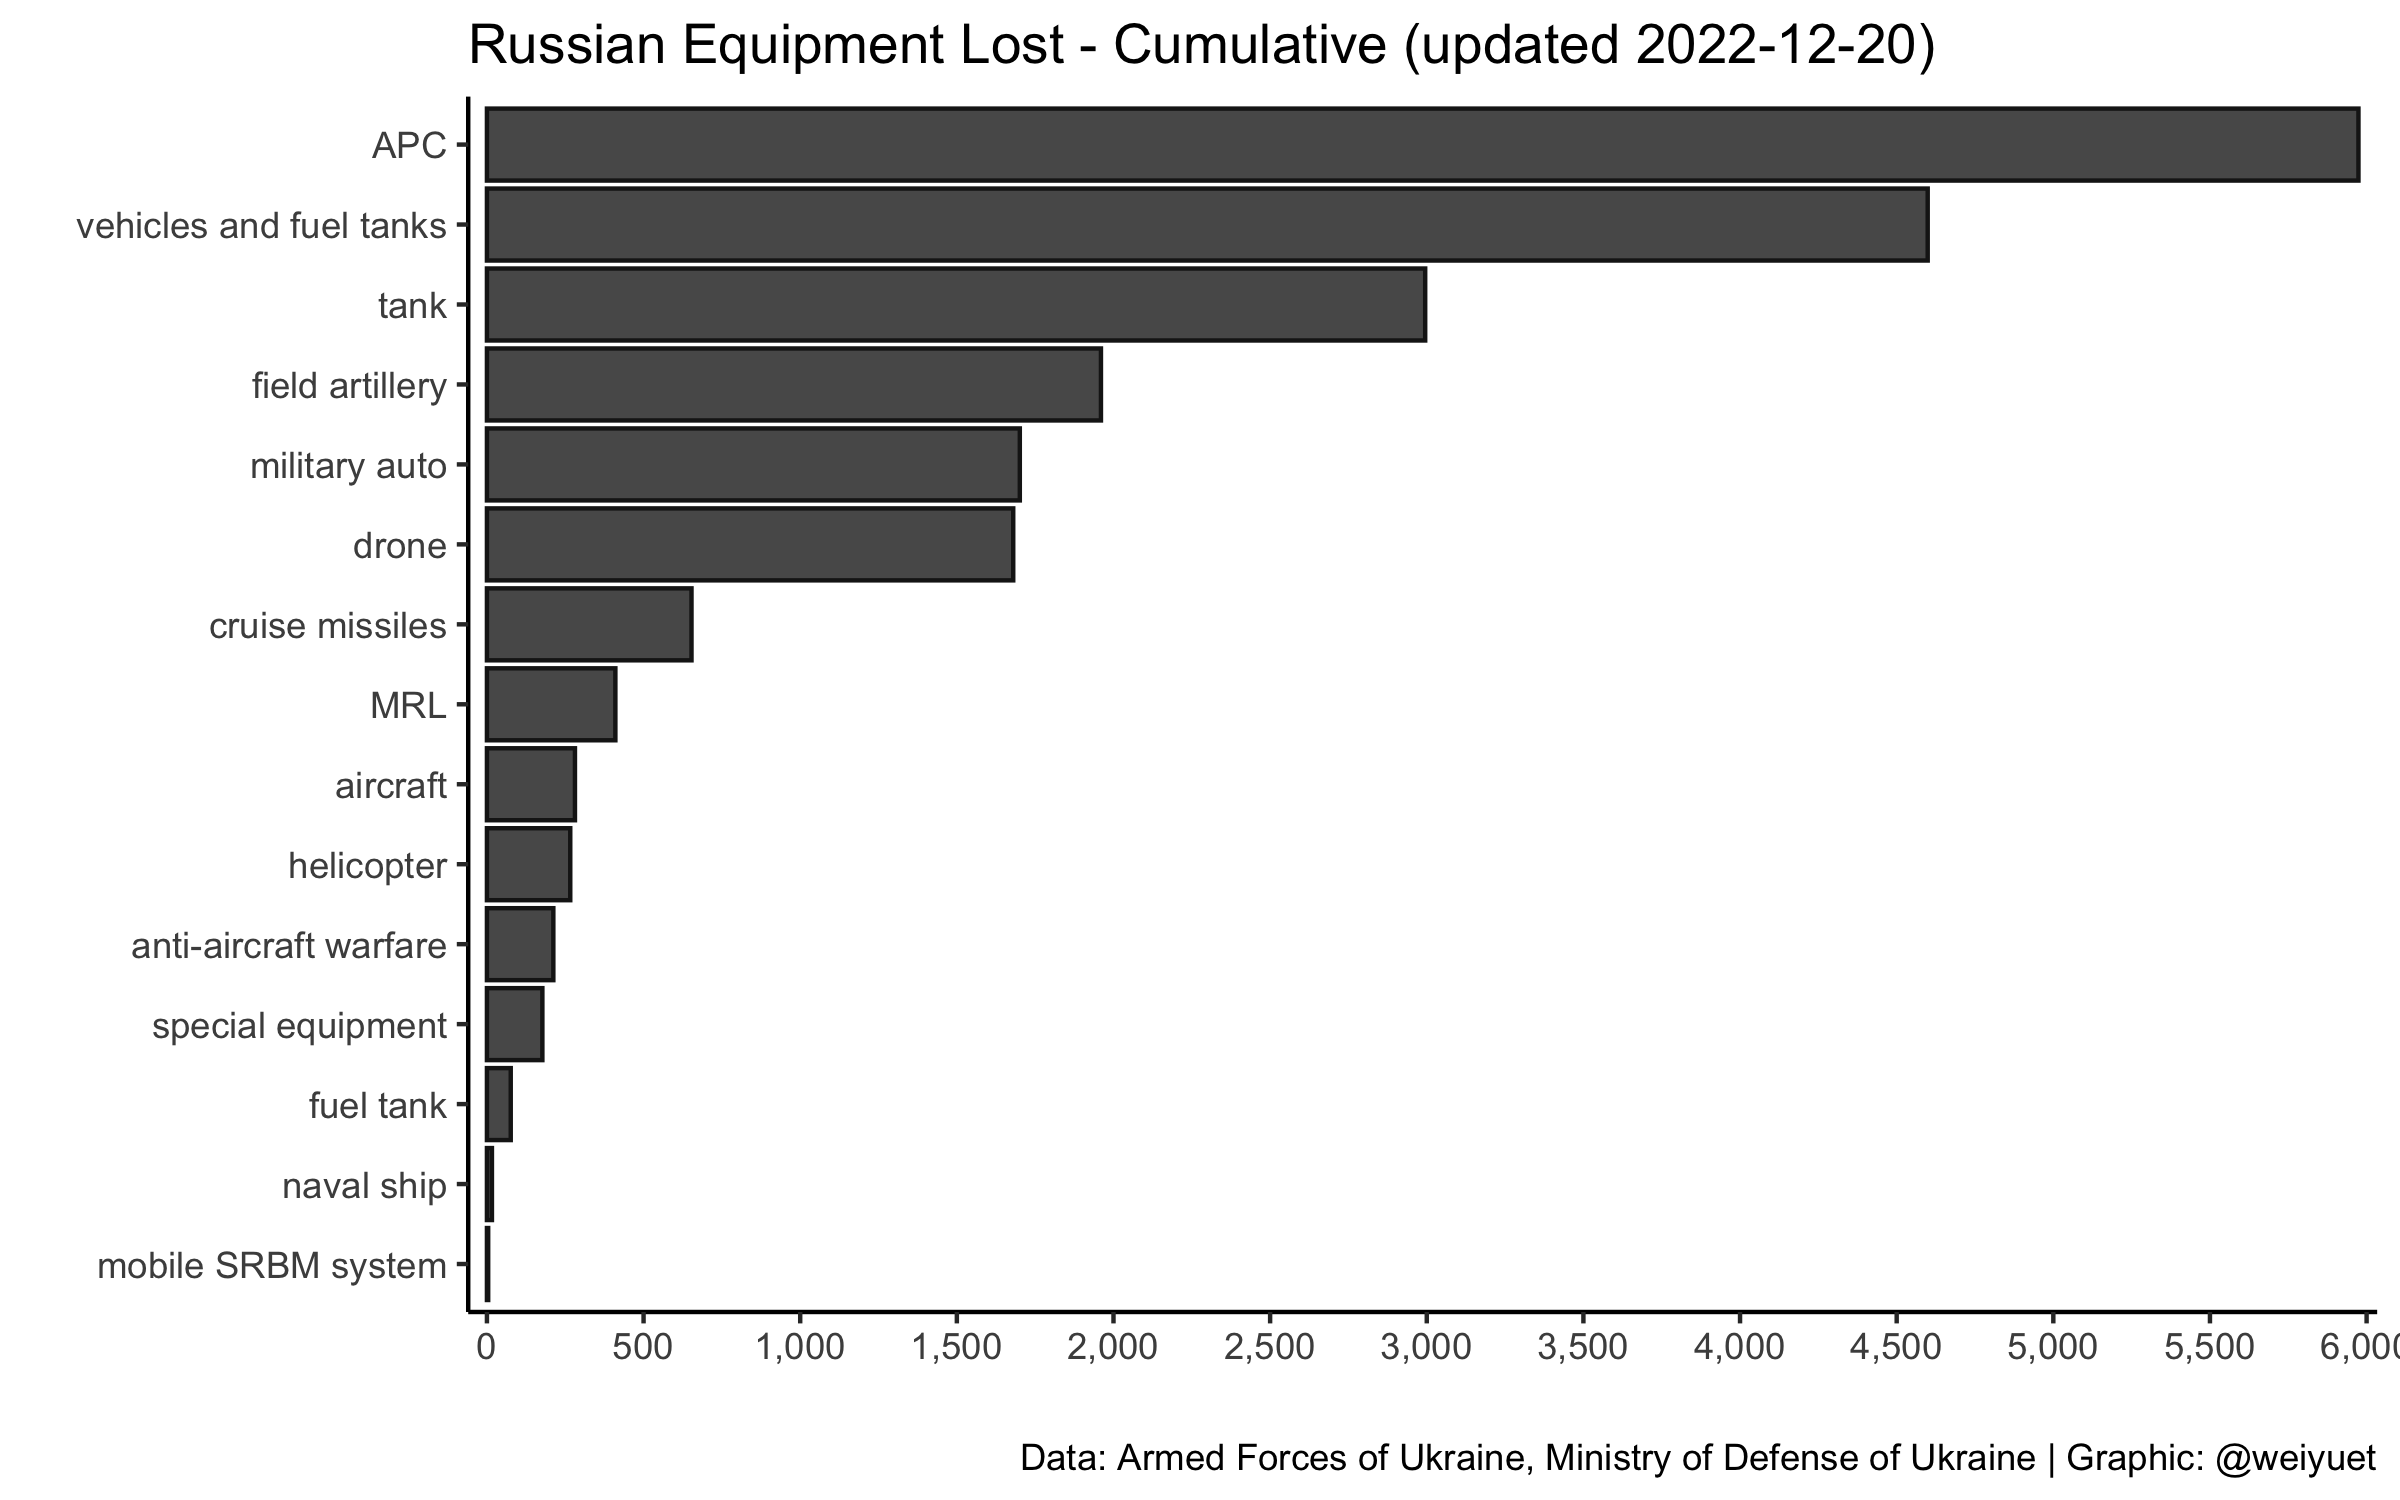
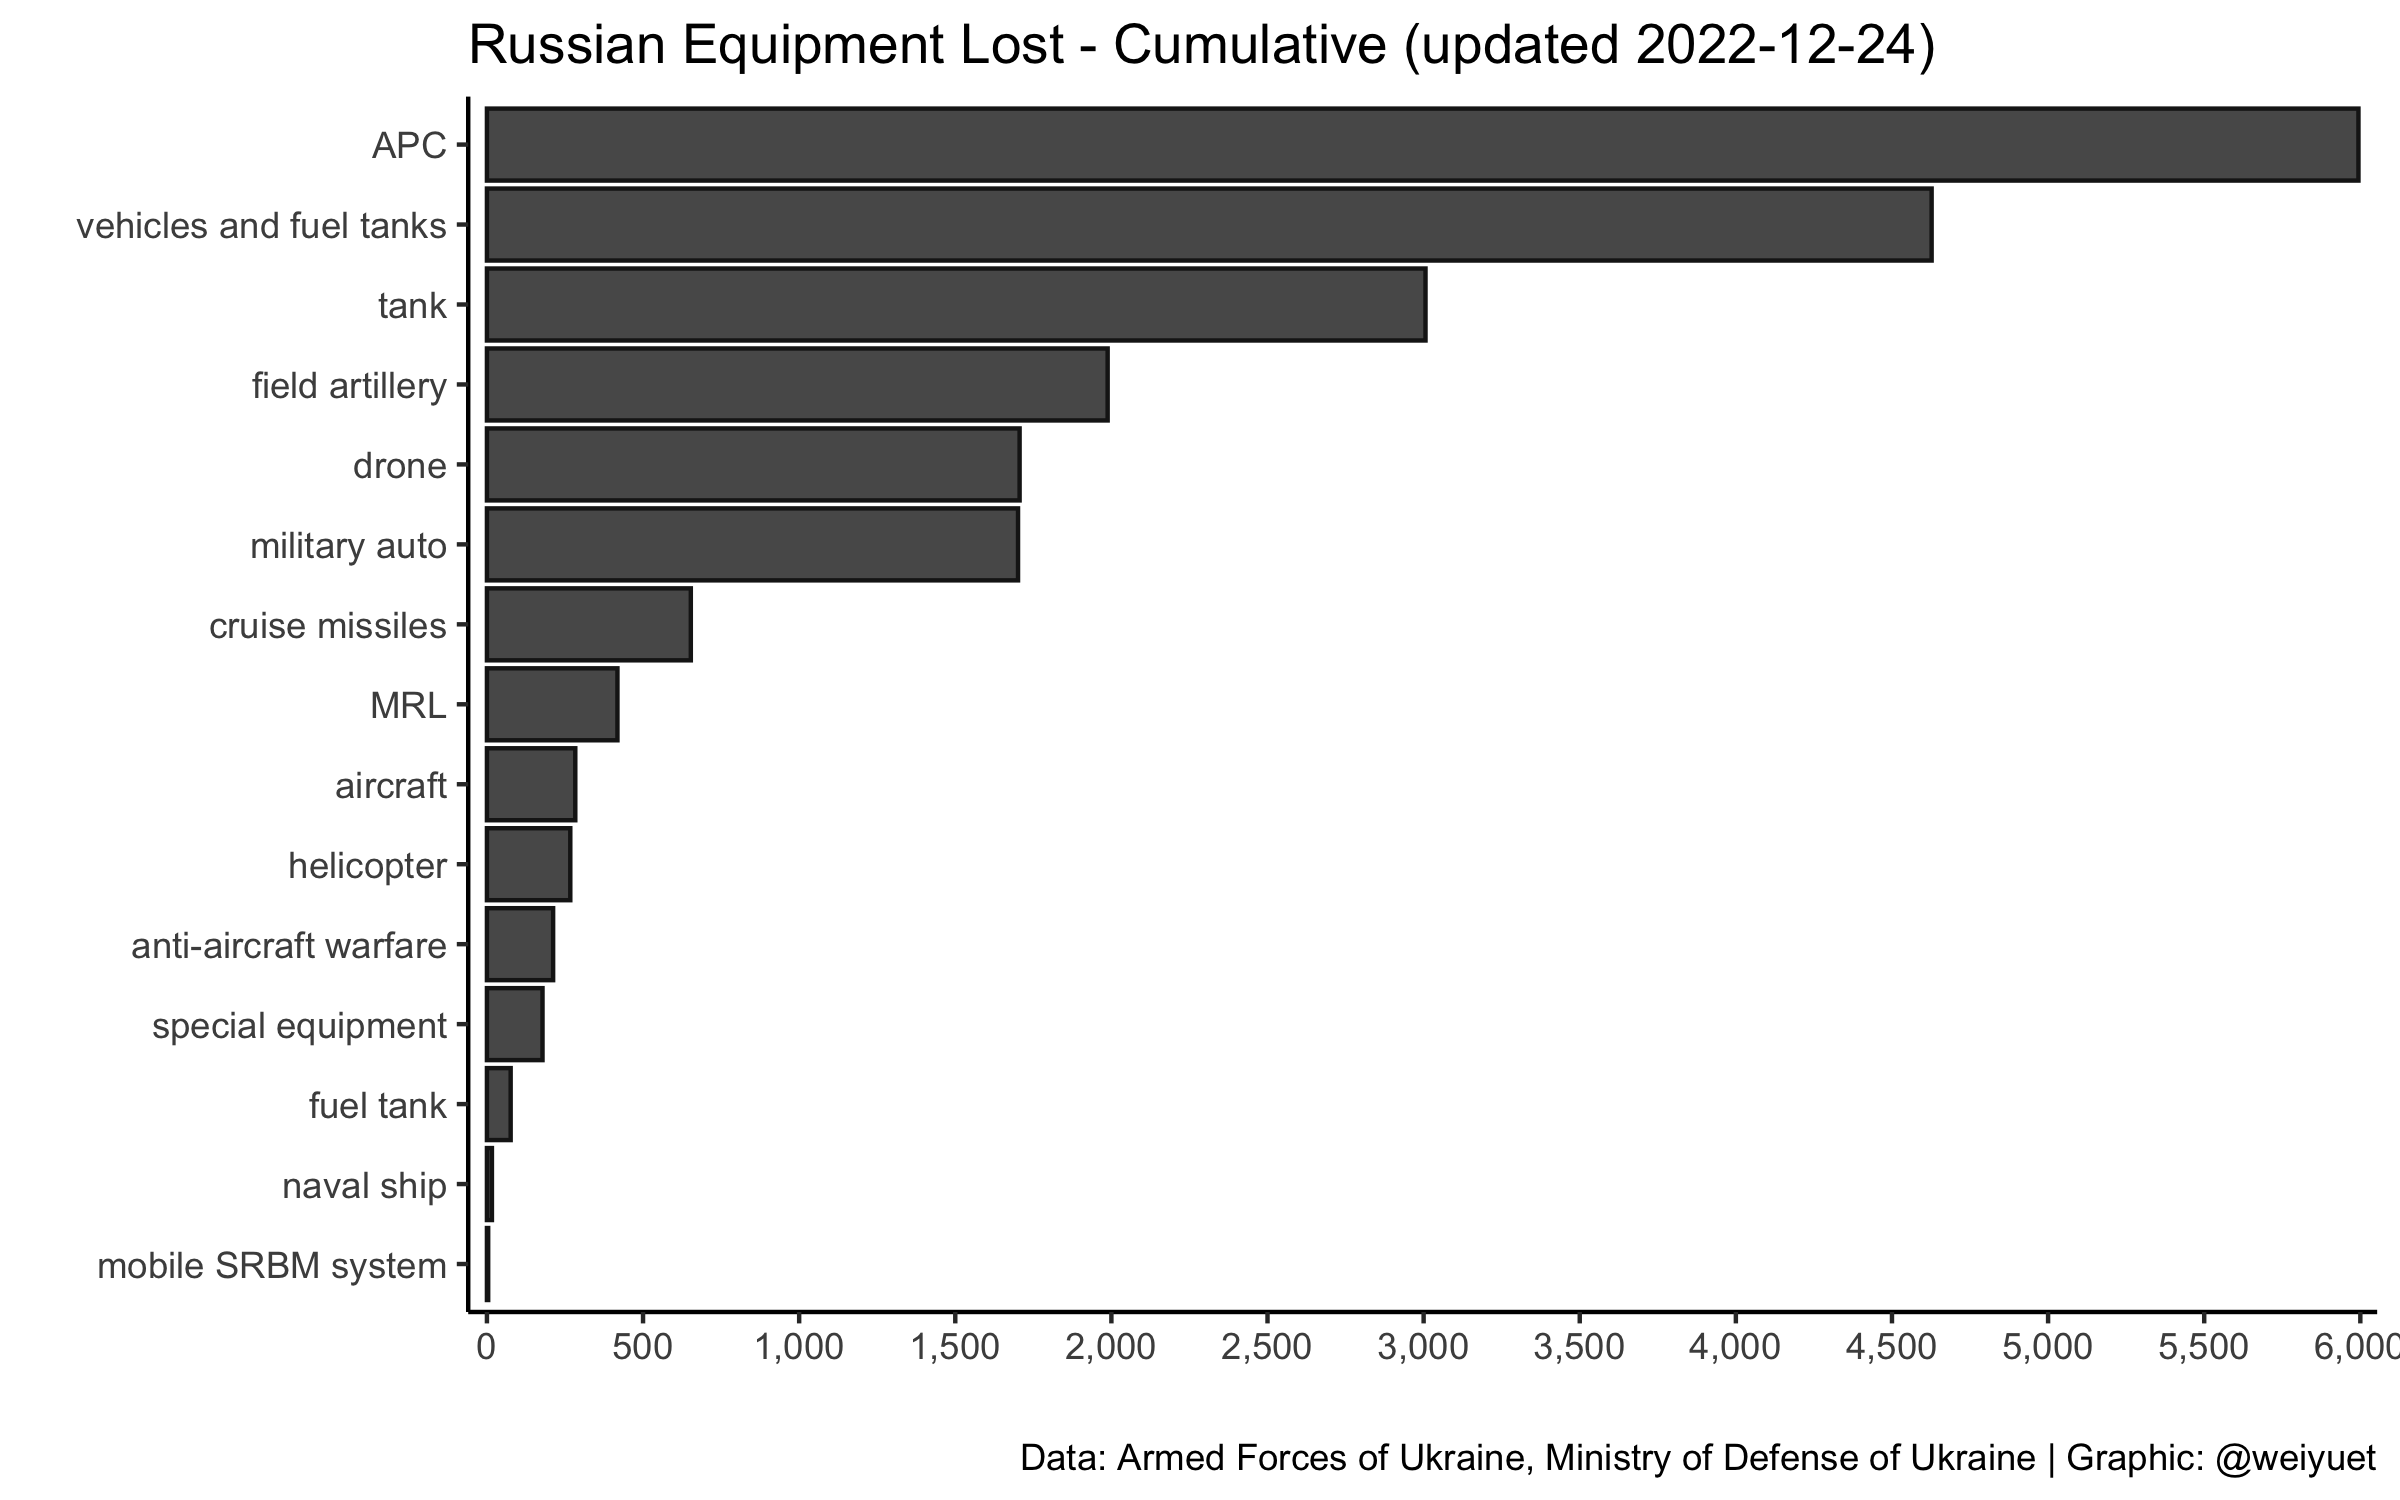
Updated 25 December

diff --git a/README.md b/README.md
@@ -6,7 +6,7 @@ Wong Wei Yuet 2022-05-26
 
   - War casualty data updated daily from [`Petro Ivanyuk's Kaggle`](https://www.kaggle.com/datasets/piterfm/2022-ukraine-russian-war). All data is official and put together by `Petro`
 
-Updated: 2022-12-23
+Updated: 2022-12-25
 
 ## Summary of Conflict
 
